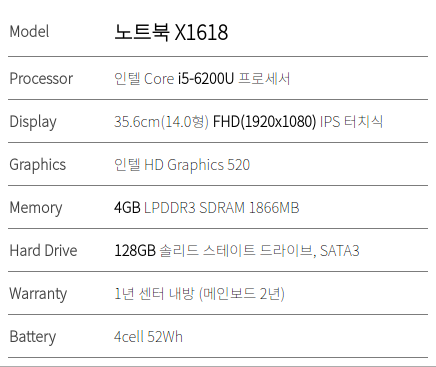
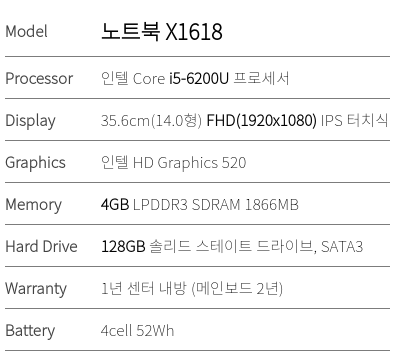
example of image to text solution

diff --git a/_includes/product.html b/_includes/product.html
@@ -20,6 +20,58 @@
                 as well.
                 </p>
 
+                <div id="column-content">
+                  <div class="subsection">
+                    <span class="subsection-title">IMAGE</span>
+                    <img src="img/product_notebook.png" class="img-responsive" id="productnotebook" />
+                  </div>
+
+                  <span class="fa fa-long-arrow-right arrow"></span>
+
+                  <script>
+                    var arrow = document.getElementsByClassName("arrow")[0];
+                    arrow.classList.remove("fa-long-arrow-down");
+                    arrow.classList.remove("fa-long-arrow-right");
+
+                    if (window.screen.width < 994) {
+                      arrow.classList.add("fa-long-arrow-down");
+                      arrow.style.marginTop = "0.3em";
+                      arrow.style.marginBottom = "0.3em";
+                      arrow.style.display = "block";
+                    }
+                    else {
+                      arrow.classList.add("fa-long-arrow-right");
+                    }
+                  </script>
+
+                  <div class="subsection">
+                    <span class="subsection-title">HTML/CSS</span>
+                    <div id="table-container">
+                    <table>
+                      <tr> <td class="param">Model</td>            <td><span id="firstrow">노트북 X1618</span></td> </tr>
+
+                      <tr> <td class="param">Processor</td>        <td>인텔 Core <strong>i5-6200U</strong> 프로세서</td> </tr>
+
+                      <tr> <td class="param">Display</td>          <td>35.6cm(14.0형) <strong>FHD(1920x1080)</strong> IPS 터치식</td> </tr>
+
+                      <tr> <td class="param">Graphics</td>         <td>인텔 HD Graphics 520</td> </tr>
+
+                      <tr> <td class="param">Memory</td>           <td><strong>4GB</strong> LPDDR3 SDRAM 1866MB</td> </tr>
+
+                      <tr> <td class="param">Hard Drive</td>       <td><strong>128GB</strong> 솔리드 스테이트 드라이브, SATA3</td> </tr>
+
+                      <tr> <td class="param">Warranty</td>         <td>1년 센터 내방 (메인보드 2년)</td> </tr>
+
+                      <tr> <td class="param">Battery</td>          <td>4cell 52Wh</td> </tr>
+                    </table>
+                    </div>
+                  </div>
+                </div>
+                </div>
+
+                <button onclick="selectAllTextOnPage();" class="btn btn-xl" id="select-text-btn">Select text</button>
+                <p>Tip: Click on button above to select all the text on this page and see difference between image and <strong>Image to Text</strong> solution.</p>
+
                 <h3>Filtering</h3>
                 <p>
                 <strong>Filtering</strong> solution exploits already extracted information from product pages. Obtained specifications of products are used to create filtering mechanism that enables customers to easily reduce number of relevant products.

diff --git a/_includes/css/grayscale.css b/_includes/css/grayscale.css
@@ -552,6 +552,15 @@ fieldset[disabled] .btn-xl.active {
     }
 }
 
+@font-face {
+  font-family: 'Noto Sans KR';
+  font-style: normal;
+  font-weight: 100;
+  src: url(https://fonts.gstatic.com/ea/notosanskr/v2/NotoSansKR-Thin.woff2) format('woff2'),
+       url(https://fonts.gstatic.com/ea/notosanskr/v2/NotoSansKR-Thin.woff) format('woff'),
+       url(https://fonts.gstatic.com/ea/notosanskr/v2/NotoSansKR-Thin.otf) format('opentype');
+}
+
 #product p {
   margin-left: 1em;
   margin-right: 1em;
@@ -574,4 +583,91 @@ div.alert {
 
 i.fa-reply {
   margin-left: -0.1em;
+}
+
+
+div#table-container {
+  padding: 0.5em;
+  background-color: #fff;
+  border: 5px solid #acacac;
+  display: inline-block;
+  vertical-align: middle;
+}
+
+table {
+  border-collapse: collapse;
+  width: 100%;
+  background-color: #fff;
+}
+
+table tr td::selection,
+table tr td strong::selection,
+table tr td span::selection {
+  background: red;
+}
+
+table::-moz-selection,
+table tr td strong::selection,
+table tr td span::selection {
+  background: red;
+}
+
+table tr td {
+  padding-top: 0.7em;
+  padding-bottom: 0.7em;
+  border-bottom: 1px solid #7c7c7c;
+  color: #000;
+  font-family: 'Noto Sans KR';
+  font-weight: 500;
+  font-size: 1.1em;
+  letter-spacing: 0.01em;
+  text-align: left;
+}
+
+table tr td.param {
+  width: 25%;
+  font-weight: 700;
+  color: #414141;
+}
+
+table tr td strong {
+  color: #020202;
+  font-weight: 700;
+}
+
+table tr td span#firstrow {
+  font-size: 1.4em;
+  font-weight: 700;
+}
+
+#productnotebook {
+  border: 5px solid #acacac;
+}
+
+#column-content {
+  display: inline-block;
+}
+
+div.subsection {
+  vertical-align: middle;
+  display: inline-block;
+}
+
+span.arrow {
+  color: #fff;
+  font-size: 3em;
+  display: inline-block;
+  vertical-align: middle;
+}
+
+span.subsection-title {
+  color: #fff;
+  display: block;
+  font-family: 'Open Sans',"Helvetica Neue",Helvetica,Arial,sans-serif;
+  font-weight: 700;
+}
+
+button#select-text-btn {
+  margin-top: 0.8em;
+  margin-bottom: 0.8em;
 }

diff --git a/js/grayscale.js b/js/grayscale.js
@@ -10,6 +10,22 @@ $('video').on('ended', function () {
     this.play();
 });
 
+// Select all text on page
+// Martin Kersner, 2016/08/28
+function selectElementContents(el) {
+    var range = document.createRange();
+    range.selectNodeContents(el);
+    var sel = window.getSelection();
+    sel.removeAllRanges();
+    sel.addRange(range);
+}
+
+function selectAllTextOnPage() {
+  //var el = document.getElementById("column-content");
+  var el = document.getElementsByTagName("body")[0];
+  selectElementContents(el);
+}
+
 // jQuery to collapse the navbar on scroll
 $(window).scroll(function() {
     if ($(".navbar").offset().top > 50) {
